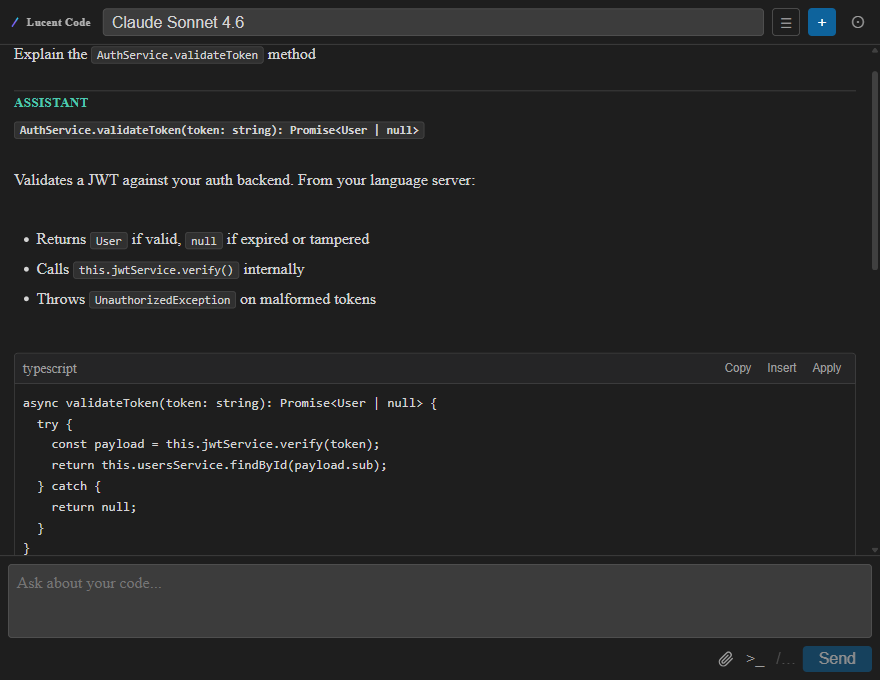
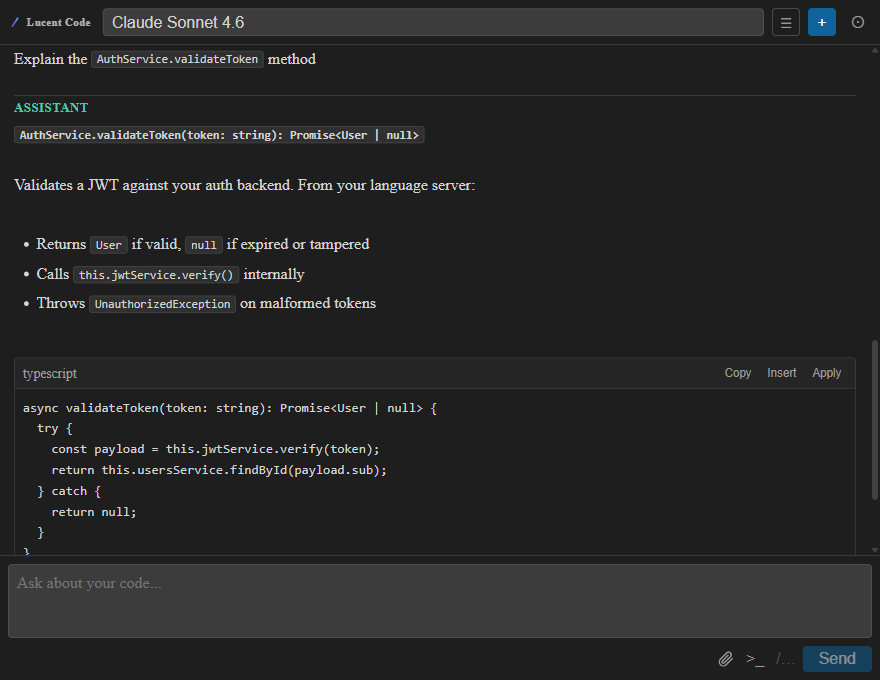
fix(webview): normalize message content spacing, update screenshots
Zero out first/last child margins and normalize paragraph margins inside
.message-content so the gap between messages is consistent regardless of
whether content starts/ends with a paragraph, list, or code block.
Retake marketing screenshots to reflect the fix.

diff --git a/webview/src/styles.css b/webview/src/styles.css
@@ -209,6 +209,16 @@ body {
   word-wrap: break-word;
 }
 
+.message-content > *:first-child { margin-top: 0; }
+.message-content > *:last-child { margin-bottom: 0; }
+
+.message-content p {
+  margin: 0.5em 0;
+}
+
+.message-content p:first-child { margin-top: 0; }
+.message-content p:last-child { margin-bottom: 0; }
+
 .message-content code {
   background: var(--vscode-textPreformat-background, rgba(255,255,255,0.08));
   border: 1px solid var(--border);
